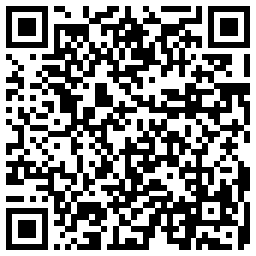
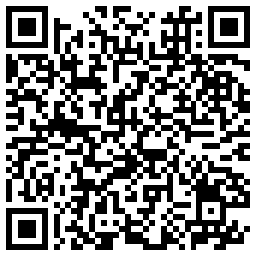
now it uses rawgithub instead of raw.github

diff --git a/57428a122d587b33a054c2a245076518/script.html b/57428a122d587b33a054c2a245076518/script.html
@@ -68,7 +68,7 @@
 <span class="comment"># load plot from github</span>
 <span class="functioncall">library</span><span class="keyword">(</span><span class="symbol">ggplot2</span><span class="keyword">)</span>
 <span class="functioncall">library</span><span class="keyword">(</span><span class="symbol">RCurl</span><span class="keyword">)</span>
-<span class="symbol">plotOb</span> <span class="assignement">&lt;-</span> <span class="functioncall">getBinaryURL</span><span class="keyword">(</span><span class="string">"https://raw.github.com/pbiecek/graphGallery/master/57428a122d587b33a054c2a245076518/plot.rda"</span><span class="keyword">)</span>
+<span class="symbol">plotOb</span> <span class="assignement">&lt;-</span> <span class="functioncall">getBinaryURL</span><span class="keyword">(</span><span class="string">"https://rawgithub.com/pbiecek/graphGallery/master/57428a122d587b33a054c2a245076518/plot.rda"</span><span class="keyword">)</span>
 <span class="symbol">tf</span> <span class="assignement">&lt;-</span> <span class="functioncall">tempfile</span><span class="keyword">(</span><span class="keyword">)</span>
 <span class="functioncall">writeBin</span><span class="keyword">(</span><span class="symbol">plotOb</span><span class="keyword">,</span> <span class="symbol">tf</span><span class="keyword">)</span>
 <span class="symbol">name</span> <span class="assignement">&lt;-</span> <span class="functioncall">load</span><span class="keyword">(</span><span class="symbol">tf</span><span class="keyword">)</span>

diff --git a/57428a122d587b33a054c2a245076518/index.html b/57428a122d587b33a054c2a245076518/index.html
@@ -17,16 +17,16 @@
 </head>
 <body>
 <h1>Plot title: 57428a122d587b33a054c2a245076518</h1>
-<a href="https://raw.github.com/pbiecek/graphGallery/master/57428a122d587b33a054c2a245076518">Direct link to the repository</a><br><br>
+<a href="https://rawgithub.com/pbiecek/graphGallery/master/57428a122d587b33a054c2a245076518">Direct link to the repository</a><br><br>
 <img width="128" src="qrcode.png"/>
 <h1>Tags</h1>
-PISA 2009, test
+PISA 2009, test, example
 <h1>Data summary</h1>
-<iframe src="https://raw.github.com/pbiecek/graphGallery/master/57428a122d587b33a054c2a245076518/data.summary.html" width="1000" height="200"></iframe>
+<iframe src="https://rawgithub.com/pbiecek/graphGallery/master/57428a122d587b33a054c2a245076518/data.summary.html" width="1000" height="200"></iframe>
 <h1>Mappings</h1>
-<iframe src="https://raw.github.com/pbiecek/graphGallery/master/57428a122d587b33a054c2a245076518/plot.summary.html" width="1000" height="200"></iframe>
+<iframe src="https://rawgithub.com/pbiecek/graphGallery/master/57428a122d587b33a054c2a245076518/plot.summary.html" width="1000" height="200"></iframe>
 <h1>Load it to R</h1>
-<iframe src="https://raw.github.com/pbiecek/graphGallery/master/57428a122d587b33a054c2a245076518/script.html" width="1000" height="200"></iframe>
+<iframe src="https://rawgithub.com/pbiecek/graphGallery/master/57428a122d587b33a054c2a245076518/script.html" width="1000" height="200"></iframe>
 <h1>Examples</h1>
 <img width="500" src="plot_2.png"/>
 <img width="500" src="plot_3.png"/>
